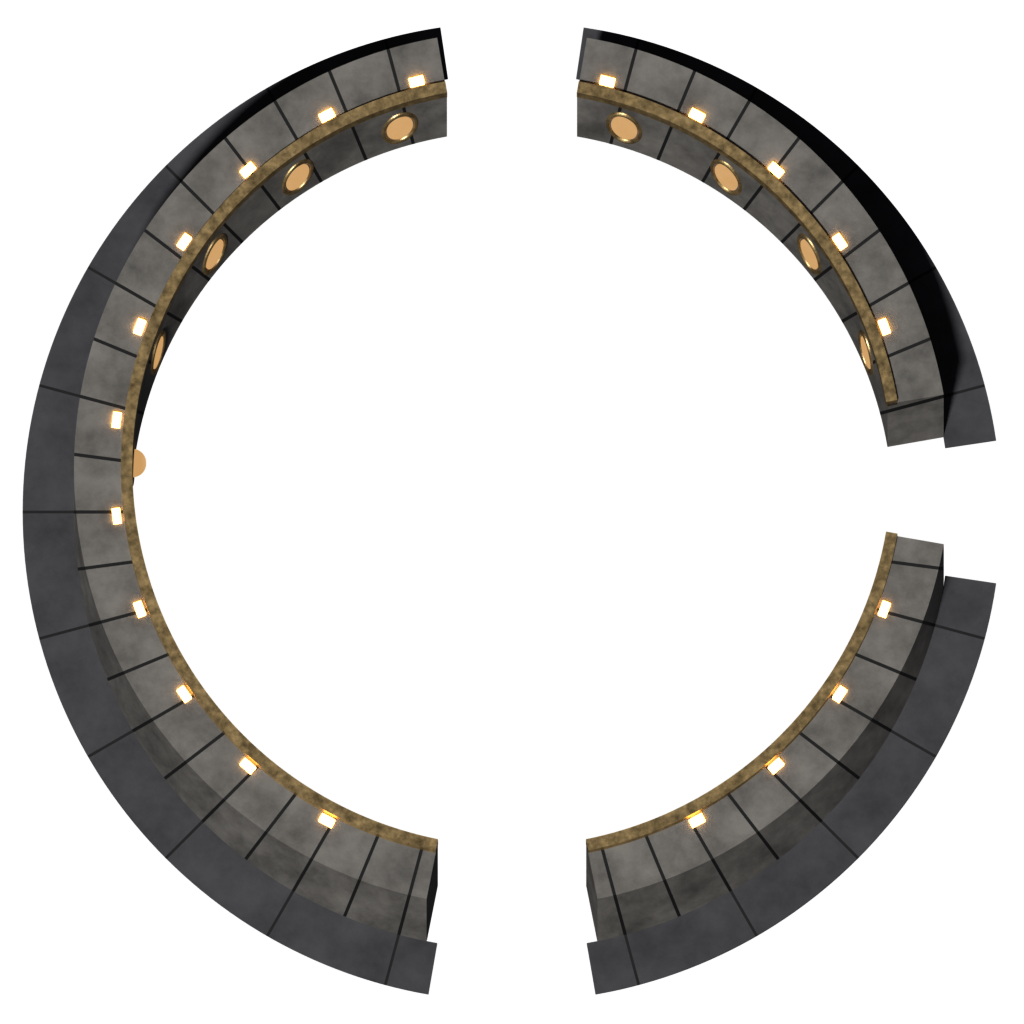
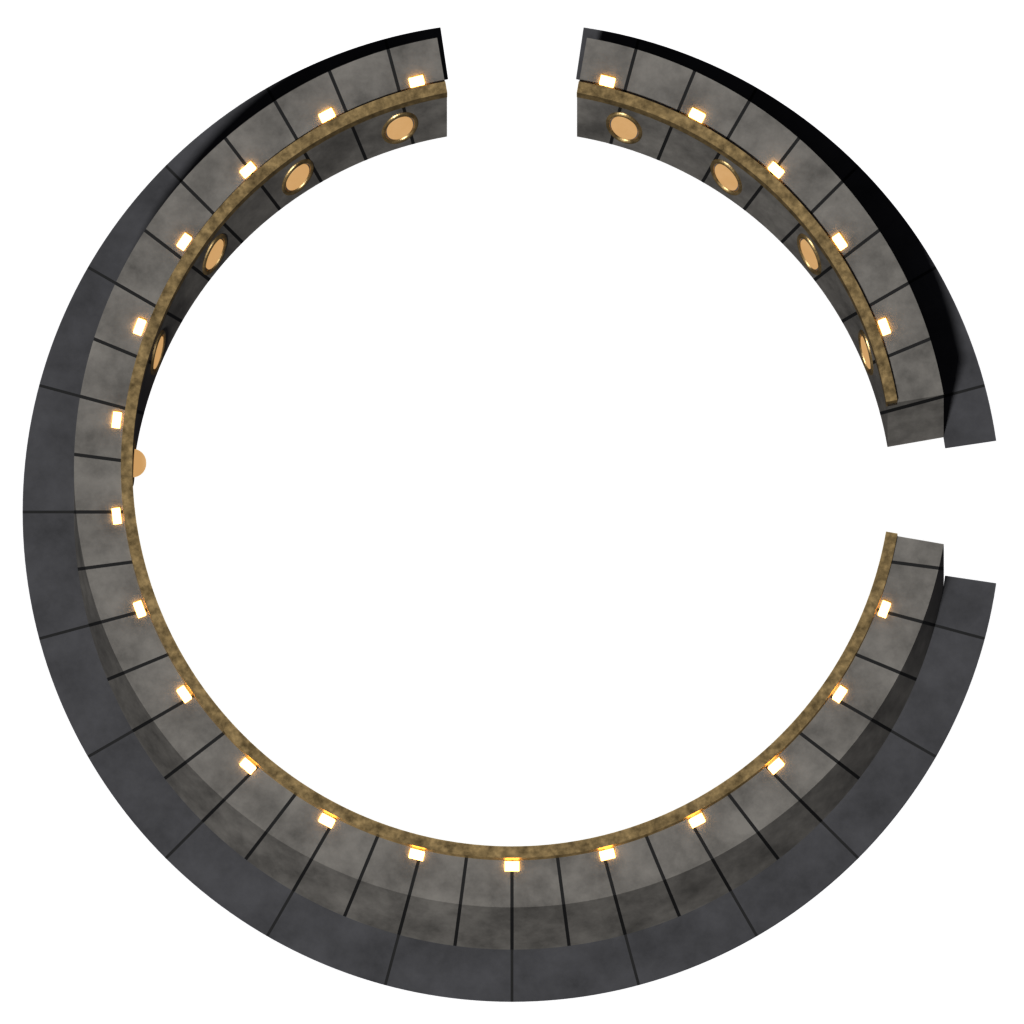
TARDIS doors in the console room's south wall (1.11.0)
ChatGPT door art (closed/open) crossfades as a player approaches; walking
through the open doorway leaves the ship, arrival is just inside. The south
corridor, its label and the old exit picture are retired; the console wall
render closes its south opening. Adds Eye hall prompts for ChatGPT.

Changed region(s): [[0.375, 0.8125, 0.625, 1.0]]

diff --git a/tools/blender/rooms.py b/tools/blender/rooms.py
@@ -20,6 +20,7 @@ from mathutils import Matrix
 argv = sys.argv[sys.argv.index('--') + 1:] if '--' in sys.argv else []
 OUT = (argv[0] if argv else '//render').rstrip('/\\')
 SAMPLES = int(argv[1]) if len(argv) > 1 else 64
+ONLY = set(argv[2:])  # optional subset: eye-floor eye-wall console-wall
 LIFT = 0.75
 
 scene = bpy.context.scene
@@ -366,26 +367,34 @@ def eye_floor():
     bottom.data.materials.append(plate('deep', (0.02, 0.012, 0.01, 1), emit=((1.0, 0.35, 0.06, 1), 0.07)))
 
 
+def wanted(name):
+    return not ONLY or name in ONLY
+
+
 # Eye hall floor
-clear()
-eye_floor()
-lights(star=5000)
-shear_everything()
-camera(68, 2048)
-render('eye-floor')
+if wanted('eye-floor'):
+    clear()
+    eye_floor()
+    lights(star=5000)
+    shear_everything()
+    camera(68, 2048)
+    render('eye-floor')
 
 # Eye hall wall: closed ring
-clear()
-build_wall(29.6, 31.9, 2.4, (), 34)
-lights()
-shear_everything()
-camera(68, 2048)
-render('eye-wall')
+if wanted('eye-wall'):
+    clear()
+    build_wall(29.6, 31.9, 2.4, (), 34)
+    lights()
+    shear_everything()
+    camera(68, 2048)
+    render('eye-wall')
 
-# Console room wall: corridors north, east and south (half-widths in tiles)
-clear()
-build_wall(13.4, 15.4, 2.0, ((90, 2.2), (0, 2.2), (270, 2.6)), 17.2)
-lights()
-shear_everything()
-camera(36, 1024)
-render('console-wall')
+# Console room wall: corridors north (rooms) and east (cargo hold); the exit doors sit in the
+# south wall as their own sprite.
+if wanted('console-wall'):
+    clear()
+    build_wall(13.4, 15.4, 2.0, ((90, 2.2), (0, 2.2)), 17.2)
+    lights()
+    shear_everything()
+    camera(36, 1024)
+    render('console-wall')

diff --git a/tools/scenes.py b/tools/scenes.py
@@ -92,6 +92,7 @@ try:
         ("room-2", "f.surface", "Twelve.Rooms.position(2,f)", 0.7),
         ("room-3", "f.surface", "Twelve.Rooms.position(3,f)", 0.7),
         ("interior-wide", "f.surface", "{0,-30}", 0.25),
+        ("doors", "f.surface", "{0,11}", 1.0),
     ]
     r.lua("local f=Twelve.get(storage.cap_id) for _,s in pairs{f.surface,f.eye_surface} do s.request_to_generate_chunks({0,0},6) s.force_generate_chunk_requests() game.forces.player.chart(s,{{-200,-200},{200,200}}) end")
     time.sleep(3)
@@ -101,6 +102,9 @@ try:
         print(name, r.lua(f"local f=Twelve.get(storage.cap_id) local ok,e=pcall(function() game.take_screenshot{{by_player=1,surface={surf},position={pos},zoom={zoom},resolution={{1600,1000}},show_gui=false,show_entity_info=false,daytime=0.5,path='scene-{name}.png'}} end) rcon.print(ok and 'ok' or tostring(e))"))
         time.sleep(1)
     time.sleep(4)
+    print('door-walk', r.lua("local p=game.get_player(1) local f=Twelve.get(storage.cap_id) Twelve.enter(1,f.id) storage.t0=game.tick rcon.print(p.physical_surface.name..' door='..tostring(f.inner_door))"))
+    time.sleep(2)
+    print('door-walk', r.lua("local p=game.get_player(1) local f=Twelve.get(storage.cap_id) storage.twelve.last_walk[1]=-1000 p.teleport({0,14.6}) Twelve.walk{player_index=1} rcon.print(p.physical_surface.name..' door='..tostring(f.inner_door))"))
     print('server alive:', server.poll() is None)
     print('errors in server log:', [l for l in (LAB / 'server.log').read_text(encoding='utf-8', errors='replace').splitlines() if 'Error' in l][-10:])
 finally:

diff --git a/tools/prepare_art.py b/tools/prepare_art.py
@@ -84,3 +84,11 @@ if loop:
             sheet.paste(fr, ((i % 9) * 448, (i // 9) * 448))
         sheet.save(OUT / f'eye-core-{n}.png', optimize=True)
         print(f'eye-core-{n}.png: {len(chunk)} frames, {rows} rows')
+
+# Inner doors (ChatGPT, round 2): the alcove in the console room's south wall, closed and open.
+for state in ('closed', 'open'):
+    src = ROOT / f'art/round-2/chatgpt/doors-{state}.png'
+    if src.exists():
+        img = Image.open(src).convert('RGBA')
+        process(img, lambda x, y, d, r, g, b, a: tint((255, 240, 210), r, g, b, a, 200) if a < 200 else (r, g, b, a))
+        save(square(img), f'inner-doors-{state}.png', 1024)

diff --git a/art/round-3-eye-hall-prompts.md b/art/round-3-eye-hall-prompts.md
@@ -1,0 +1,47 @@
+# Раунд 3: зал Ока Гармонии (ChatGPT)
+
+Зал собирается из трёх картинок, чтобы каждая была крупной и чёткой. Отправляй по порядку в одном чате,
+чтобы стиль совпал, и в первом сообщении приложи картинку дверей (doors-closed.png) как образец стиля.
+Звезду с кольцами рисовать не нужно: она уже есть в игре и встанет в центр.
+
+## 1. Пол зала (вид строго сверху)
+
+```
+Use the attached door image as the style reference: same painted Factorio look, dark weathered steel,
+worn brass trim, small amber lamps.
+
+Game floor texture for the factory game Factorio, seen exactly from above (orthographic, no perspective),
+square 1536x1536, transparent background outside the circle.
+
+Subject: the round floor of the Eye of Harmony chamber deep inside the TARDIS. A perfect circle filling
+the image. In the exact centre an empty round pit, about 22 percent of the image width across, with a
+heavy brass lip; the pit itself is fully transparent (a star will be placed there). Around the pit:
+concentric rings of dark steel deck plates with radial seams, one ring of floor grating, four round
+brass service pads at north, east, south and west (about 27 percent of the width from the centre) with
+grated walkways joining them to the pit. Subtle warm orange light reflected on the plates near the pit.
+No machines, no people, no text, no walls.
+```
+
+## 2. Стена зала (кольцо)
+
+```
+Same style. Game sprite for Factorio, oblique top-down view as in the door image (front faces visible,
+camera looking down at about 50 degrees), square 1536x1536, transparent background, nothing cropped.
+
+Subject: a closed circular wall ring for the same chamber, exactly matching the floor circle from the
+previous image, with an empty transparent centre. Dark riveted steel wall about as tall as the doors,
+brass bands along the top, round brass roundels and small amber lamps on the inner face. On the far
+(north) side the inner face of the wall is visible; on the near (south) side only the top of the wall.
+Outside the wall a dark heavy hull rim. No openings in the wall except a narrow gap at the south for a
+staircase. No floor, no text.
+```
+
+## 3. Лестница наверх
+
+```
+Same style, same oblique view, square 1024x1024, transparent background.
+
+Subject: a spiral staircase of dark steel steps with a brass handrail, set in a round opening in the
+floor and climbing up towards a soft pale-blue light from above. Seen from the room it stands in.
+No walls, no people, no text.
+```
